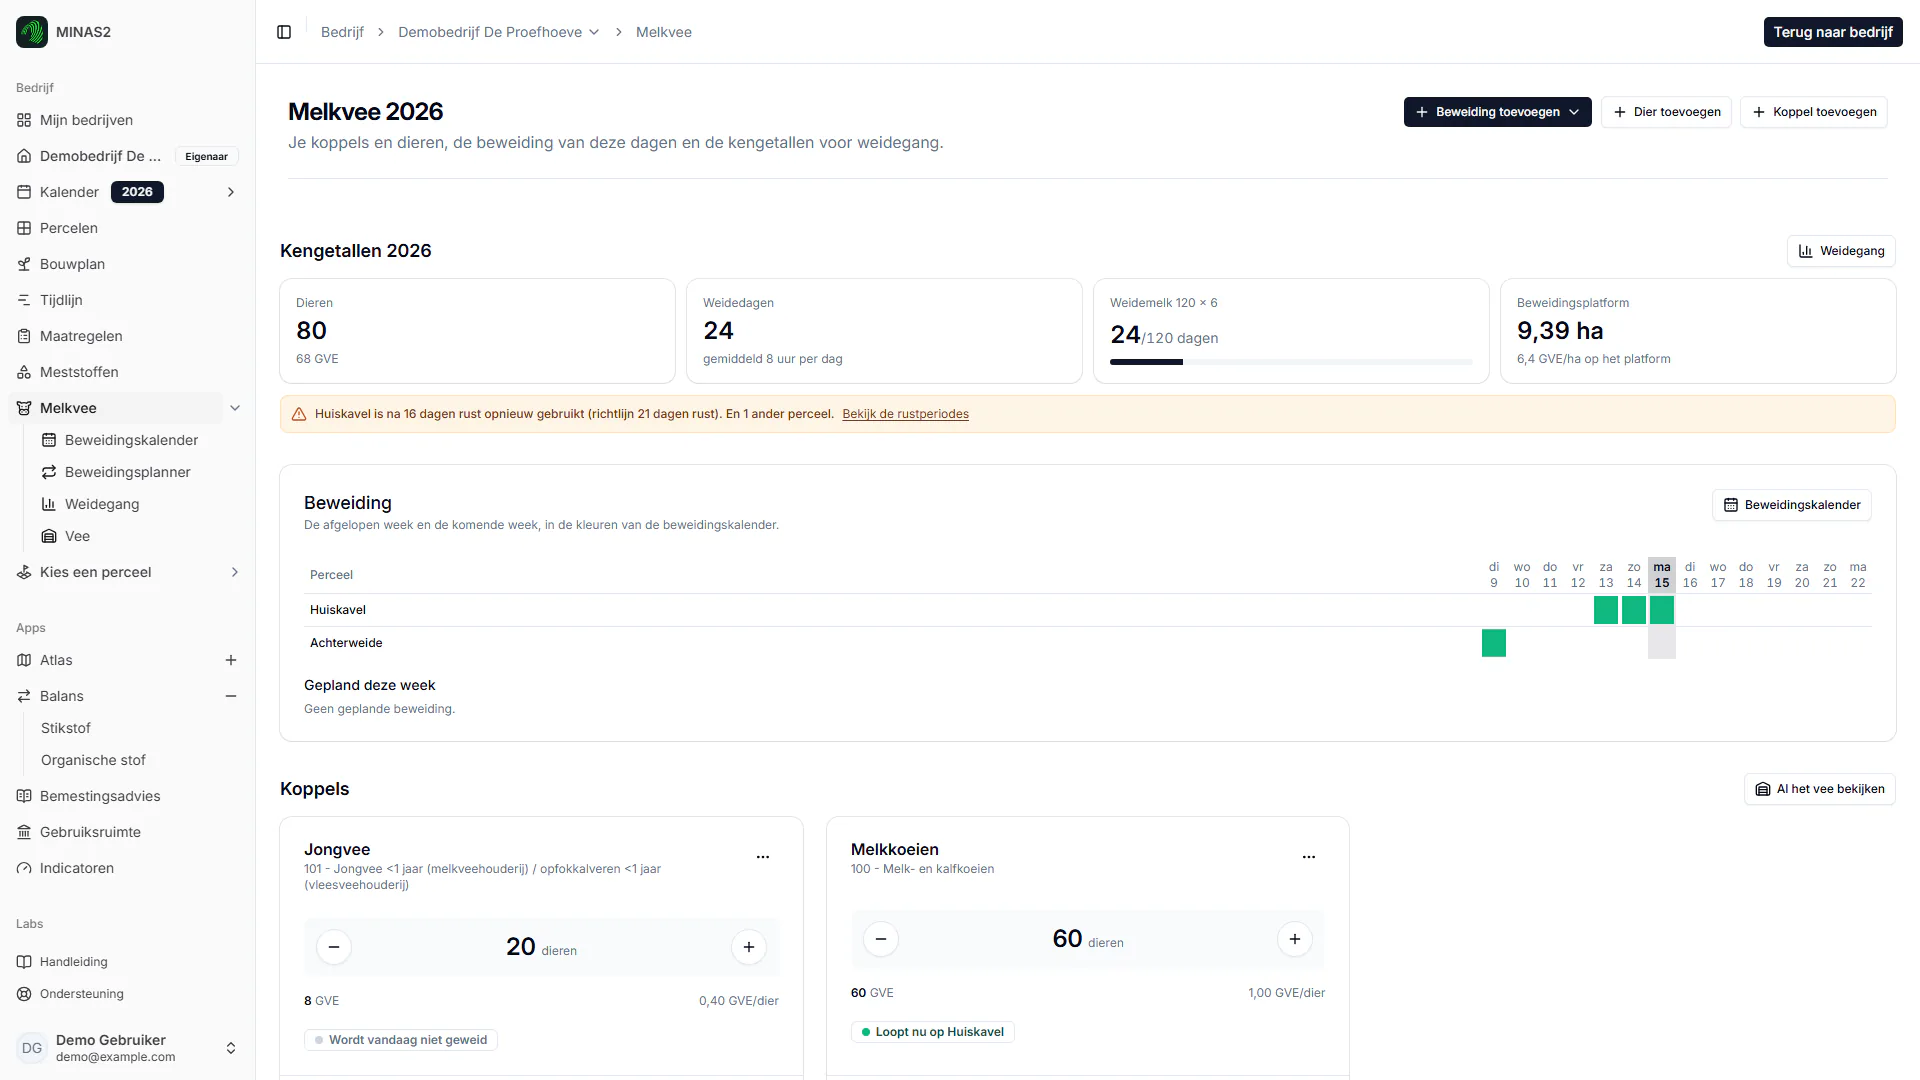
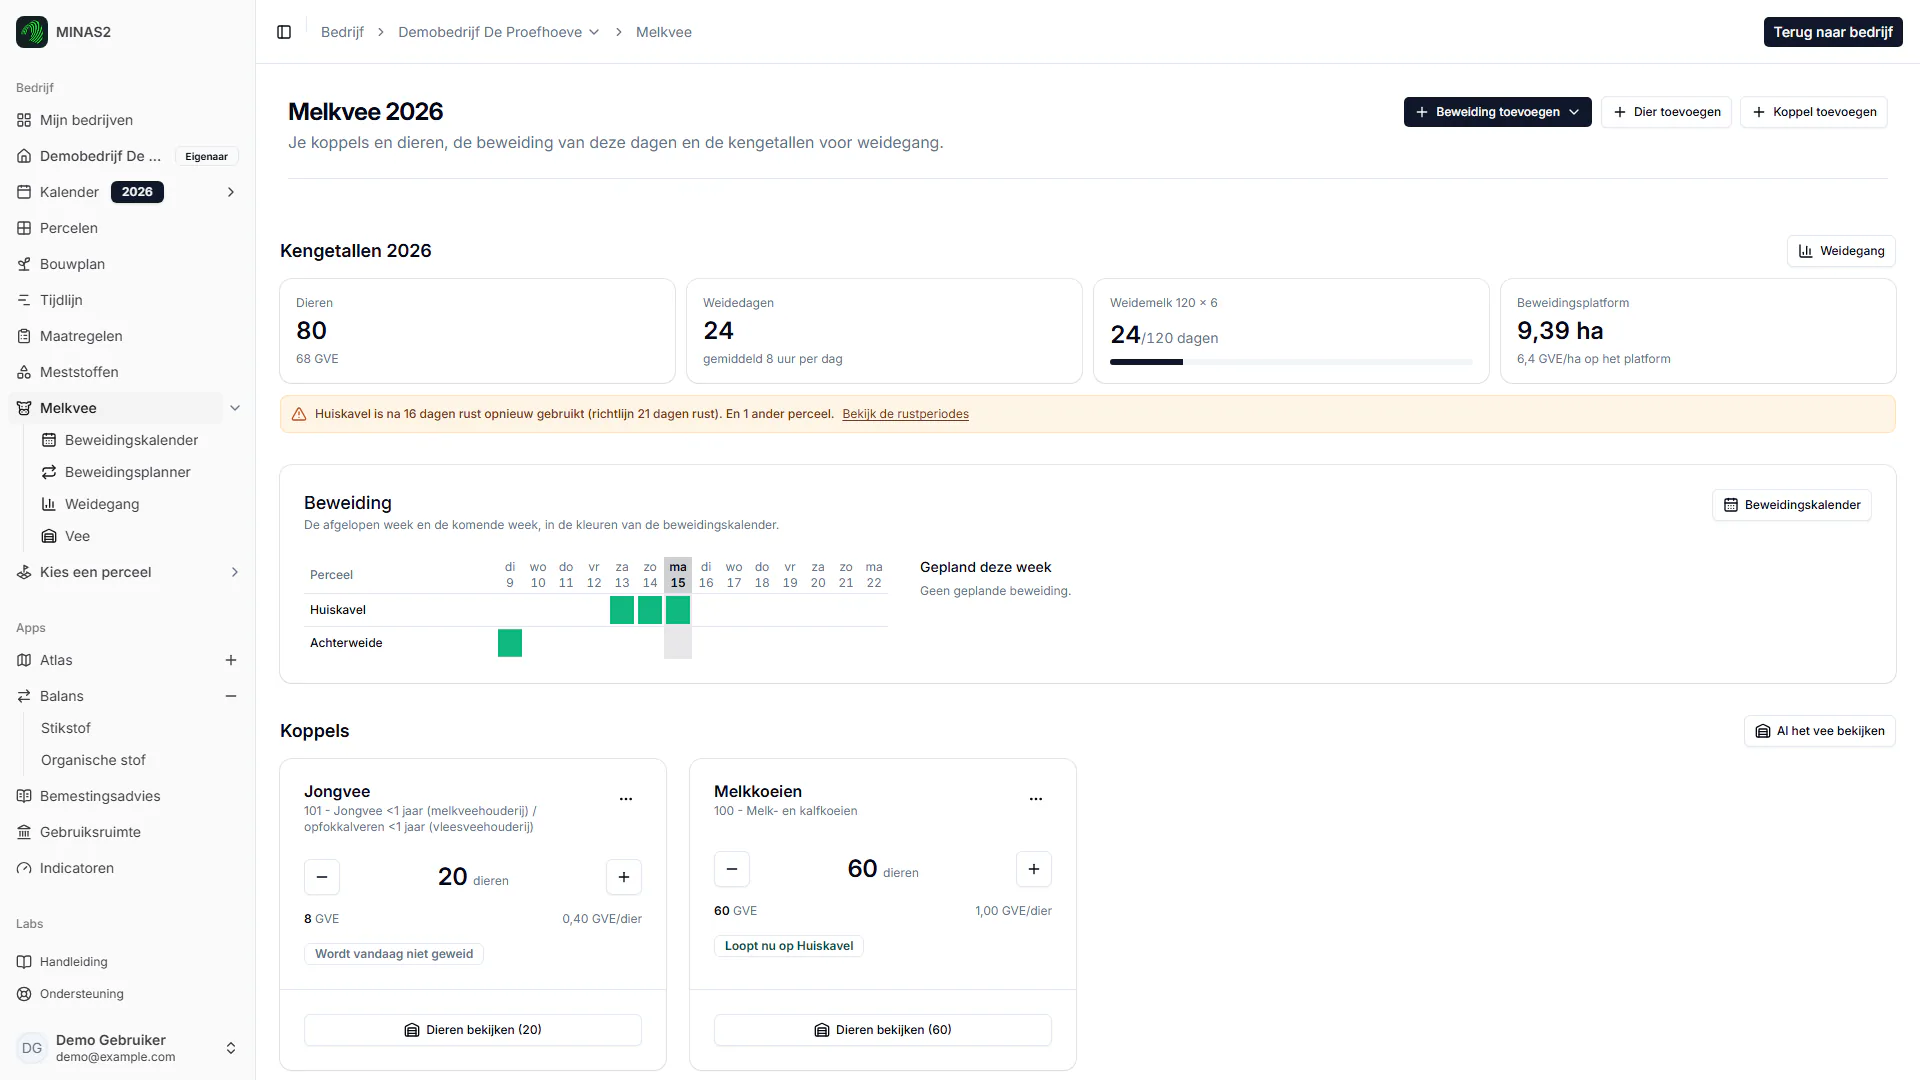
docs(fdm-app): departure date, field Beweiding layout and new screenshots

diff --git a/fdm-app/app/content/manual/chapters/beweiding.md b/fdm-app/app/content/manual/chapters/beweiding.md
@@ -137,7 +137,7 @@ Percelen zonder perceelsgrens krijgen altijd het percentage. Het plan loopt tot 
 
 ## Beweiding per perceel {#perceel}
 
-Op de pagina van een perceel staat het tabblad **Beweiding**. Daar zie je alle beweidingen en maaisneden van dat perceel op een rij, met per gebruik de koppel, de uren per dag, het beweide deel en de rust ervoor. Een rust die korter is dan de richtlijn, is gemarkeerd. Zijn er zones beweid, dan zie je ze op een kaart. Met **Beweiding toevoegen** leg je een beweiding vast voor dit perceel. Klik op de koppel van een beweiding om die aan te passen of te verwijderen; zo bereik je ook een beweiding buiten het seizoen van de kalender.
+Op de pagina van een perceel staat het tabblad **Beweiding**. Bovenaan staan de weidedagen, de weide-uren, het aantal beweidingsperioden en de maaisneden van het jaar. Daaronder zie je alle beweidingen en maaisneden van dat perceel op een rij, met per gebruik de koppel, de uren per dag, het beweide deel en de rust ervoor. Een geplande beweiding is gemarkeerd met _Gepland_, en een rust die korter is dan de richtlijn ook. Zijn er zones beweid, dan staan ze op een kaart naast de lijst; geplande beweiding staat niet op de kaart. Met **Beweiding toevoegen** leg je een beweiding vast voor dit perceel. Klik op de koppel van een beweiding om die aan te passen of te verwijderen; zo bereik je ook een beweiding buiten het seizoen van de kalender.
 
 De rust telt per deel van het perceel: bij stripgrazen krijgt elke strook zijn eigen rustperiode.
 

diff --git a/fdm-app/app/content/manual/chapters/veestapel.md b/fdm-app/app/content/manual/chapters/veestapel.md
@@ -69,7 +69,7 @@ Klik op een dier om de details te openen. Daar:
 
 - vul je levensnummer, werknummer, geboortedatum en geslacht aan en sla je ze op met **Wijzigingen opslaan**. Is het geslacht nog niet bekend, dan staat er _Onbekend_;
 - verplaats je het dier naar een andere koppel met **Verplaats naar koppel**;
-- leg je vast dat het dier het bedrijf verlaat, met datum en reden, met **Afvoer vastleggen**. Een afvoer in de toekomst houdt het dier tot die datum in zijn koppel;
+- leg je vast dat het dier het bedrijf verlaat, met datum en reden, met **Afvoer vastleggen**. De datum vul je zelf in; er staat niets vooraf ingevuld. Een afvoer in de toekomst houdt het dier tot die datum in zijn koppel, en de pagina toont dan wanneer het vertrek gepland is;
 - zie je de beweidingshistorie van het dier en in welke koppels het heeft gelopen.
 
 ### Levensnummer en werknummer {#levensnummer}
